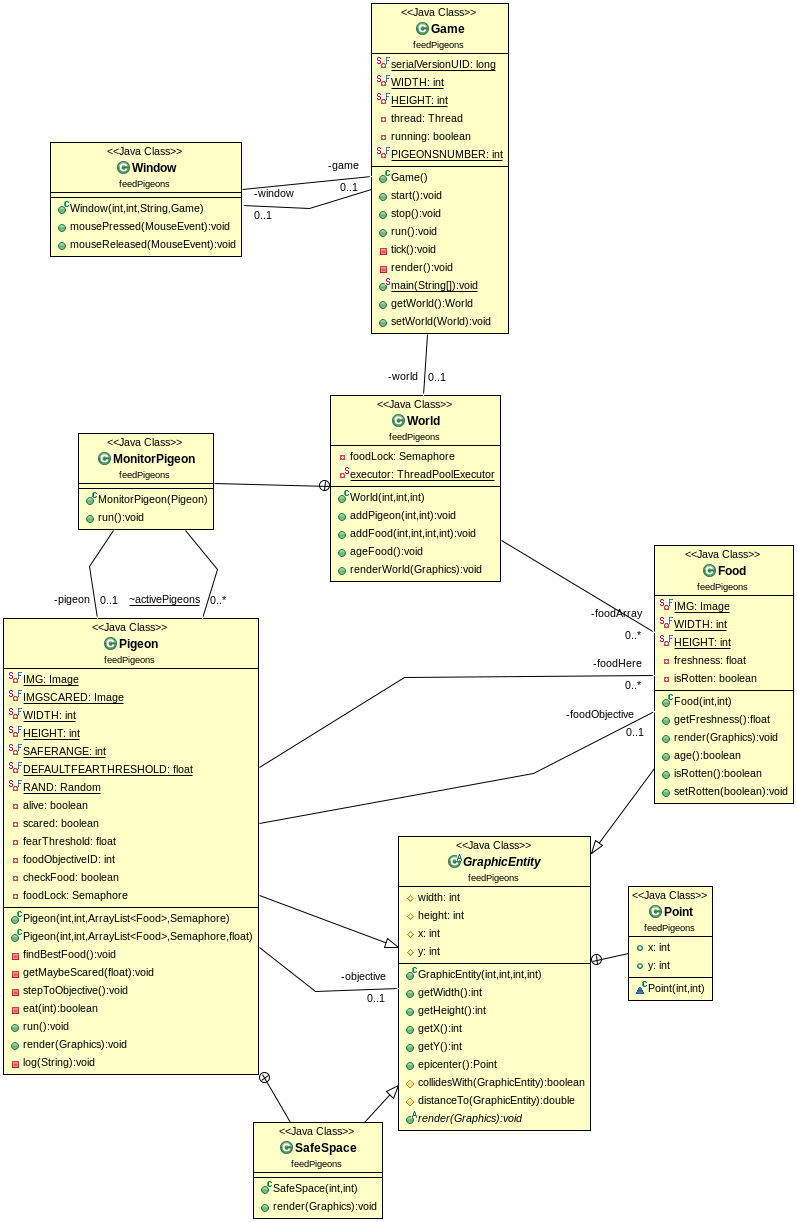
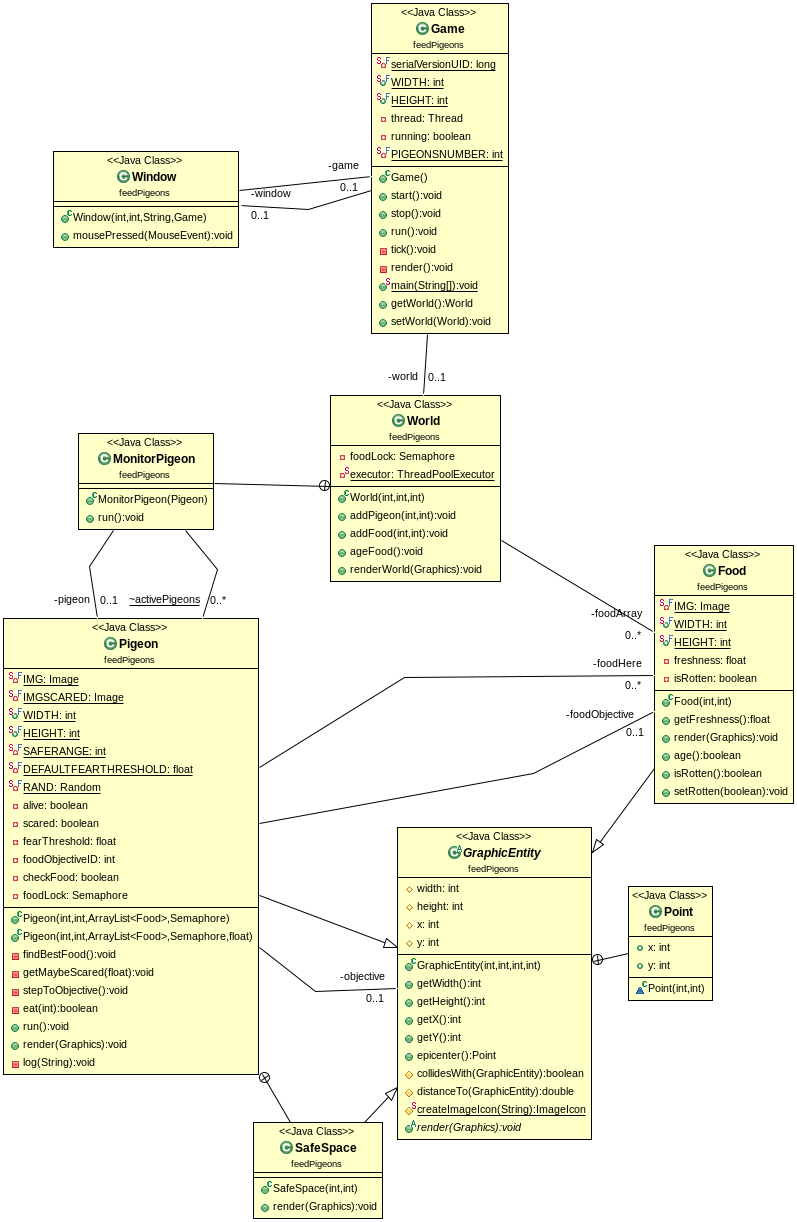
Cleaned everything + added exceptions on file not found

Changed region(s): [[0.4216, 0.653, 0.7528, 0.9329], [0.0602, 0.0933, 0.3614, 0.2177], [0.7227, 0.7774, 0.7528, 0.8085]]

diff --git a/feedPigeons/src/feedPigeons/Pigeon.java b/feedPigeons/src/feedPigeons/Pigeon.java
@@ -6,34 +6,30 @@ import java.util.ArrayList;
 import java.util.Random;
 import java.util.concurrent.Semaphore;
 
-import javax.swing.ImageIcon;
-
 //Chaque pigeon est contrôlé par un Thread
 public class Pigeon extends GraphicEntity implements Runnable {
 	// Constantes
-	private static final Image IMG = new ImageIcon("res/pigeon.png").getImage();
-	private static final Image IMGSCARED = new ImageIcon("res/scaredpigeon.png").getImage();
-	private static final int WIDTH = 21, HEIGHT = 21;
+	private static final Image IMG = createImageIcon("res/pigeon.png").getImage();
+	private static final Image IMGSCARED = createImageIcon("res/scaredpigeon.png").getImage();
+	public static final int WIDTH = 21, HEIGHT = 21;
 
 	private static final int SAFERANGE = 70;// Distance maximale de la zone de fuite
 	private static final float DEFAULTFEARTHRESHOLD = 0.995f;// Seuil de peur par défaut
 	private static final Random RAND = new Random();
 
-	//Variables
+	// Variables
 	private boolean alive = true;
 	private boolean scared = false;
 	private float fearThreshold;// Seuil de peur
-	
+
 	private int foodObjectiveID = 0;// Indice de la nourriture ciblée dans foodHere
 	private boolean checkFood = false;// Pour actualisation de la nourriture ciblée quand c'est nécessaire
 
-	//Références
+	// Références
 	private ArrayList<Food> foodHere;// Tableau des nourritures présentes
 	private Semaphore foodLock;// Sémaphore pour opérations sur le tableau de nourriture
 	private GraphicEntity objective = null;// Objectif actuel
 	private Food foodObjective = null;// Nourriture ciblée
-	
-	
 
 	public Pigeon(int x, int y, ArrayList<Food> foodToWatch, Semaphore foodLock) {
 		super(x, y, WIDTH, HEIGHT);
@@ -113,7 +109,7 @@ public class Pigeon extends GraphicEntity implements Runnable {
 	private void stepToObjective() {
 
 		if (objective == null) {
-			//La nourriture ciblée a disparue
+			// La nourriture ciblée a disparue
 			checkFood = true;
 			return;
 		}
@@ -129,9 +125,9 @@ public class Pigeon extends GraphicEntity implements Runnable {
 		this.y = y_move + this.y;
 
 		if (collidesWith(objective)) {
-			//Arrivée à l'objectif
+			// Arrivée à l'objectif
 			if (objective instanceof Food) {
-				//C'est de la nourriture
+				// C'est de la nourriture
 				log("Trying to eat food " + foodObjectiveID);
 				eat(foodObjectiveID);
 				foodObjective = null;
@@ -146,13 +142,14 @@ public class Pigeon extends GraphicEntity implements Runnable {
 
 	/**
 	 * Mange la nourriture dont l'index est passé en paramètre
+	 * 
 	 * @param foodID l'index de la nourriture dans foodHere
 	 * @return true si la nourriture a été mangée avec succès
 	 */
 	private synchronized boolean eat(int foodID) {
 		try {
 			foodLock.acquire();
-			
+
 			if (foodID < foodHere.size()) {
 				foodHere.remove(foodID);
 				foodObjective = null;
@@ -161,7 +158,7 @@ public class Pigeon extends GraphicEntity implements Runnable {
 				foodLock.release();
 				return true;
 			}
-			
+
 			foodLock.release();
 		} catch (InterruptedException e) {
 		}
@@ -170,11 +167,8 @@ public class Pigeon extends GraphicEntity implements Runnable {
 	}
 
 	/**
-	 * Boucle principale du Pigeon
-	 * Chaque 60eme de seconde, peut :
-	 *  - Considérer la meilleure nourriture
-	 *  - Prendre peur
-	 *  - Marcher vers son objectif
+	 * Boucle principale du Pigeon Chaque 60eme de seconde, peut : - Considérer la
+	 * meilleure nourriture - Prendre peur - Marcher vers son objectif
 	 */
 	@Override
 	public void run() {
@@ -183,24 +177,25 @@ public class Pigeon extends GraphicEntity implements Runnable {
 
 		while (alive) {
 			frameStartTime = System.nanoTime();
-			
+
 			if (lastKnownFoodArraySize != foodHere.size() || checkFood) {
 				// Si de la nourriture vient d'arriver ou de disparaître
 				findBestFood();
 				lastKnownFoodArraySize = foodHere.size();
 				checkFood = false;
 			}
-			
+
 			getMaybeScared(RAND.nextFloat());
-			
-			if(!scared) {
+
+			if (!scared) {
 				objective = foodObjective;
 			}
-			
+
 			stepToObjective();
 
-			//Attendre la fin d'un 60eme de seconde
-			while (System.nanoTime() - frameStartTime <= 16666666l);
+			// Attendre la fin d'un 60eme de seconde
+			while (System.nanoTime() - frameStartTime <= 16666666l)
+				;
 
 		}
 
@@ -220,6 +215,7 @@ public class Pigeon extends GraphicEntity implements Runnable {
 
 	/**
 	 * Log un message dans la console, en ajoutant l'id du pigeon
+	 * 
 	 * @param msg le message à log
 	 */
 	private void log(String msg) {

diff --git a/feedPigeons/src/feedPigeons/GraphicEntity.java b/feedPigeons/src/feedPigeons/GraphicEntity.java
@@ -1,9 +1,13 @@
 package feedPigeons;
 
 import java.awt.Graphics;
+import java.net.MalformedURLException;
+import java.net.URL;
+
+import javax.swing.ImageIcon;
 
 abstract class GraphicEntity {
-	
+
 	protected int width, height;
 	protected int x, y;
 
@@ -13,10 +17,11 @@ abstract class GraphicEntity {
 		this.width = width;
 		this.height = height;
 	}
-	
-	public class Point{
+
+	public class Point {
 		public int x, y;
-		Point(int x, int y){
+
+		Point(int x, int y) {
 			this.x = x;
 			this.y = y;
 		}
@@ -49,27 +54,40 @@ abstract class GraphicEntity {
 
 	/**
 	 * Teste si l'entité est en collision avec une autre
+	 * 
 	 * @param entity l'entité avec qui vérifier la collision
 	 * @return true s'il y a collision
 	 */
 	protected boolean collidesWith(GraphicEntity entity) {
-		if(this.x + this.width < entity.x) 
+		if (this.x + this.width < entity.x)
 			return false;
-		if(this.x > entity.x + entity.width)
+		if (this.x > entity.x + entity.width)
 			return false;
-		if(this.y + this.height < entity.y) 
+		if (this.y + this.height < entity.y)
 			return false;
-		if(this.y > entity.y + entity.height)
+		if (this.y > entity.y + entity.height)
 			return false;
 		return true;
 	}
-	
+
 	protected double distanceTo(GraphicEntity entity) {
-		double term1 = Math.pow(entity.epicenter().x-this.epicenter().x, 2);
-		double term2 = Math.pow(entity.epicenter().y-this.epicenter().y, 2);
-		return Math.sqrt(term1+term2);
+		double term1 = Math.pow(entity.epicenter().x - this.epicenter().x, 2);
+		double term2 = Math.pow(entity.epicenter().y - this.epicenter().y, 2);
+		return Math.sqrt(term1 + term2);
 	}
-	
+
+	protected static ImageIcon createImageIcon(String path) {
+		URL imgURL;
+		try {
+			imgURL = new URL(new URL("file:"), path);
+			return new ImageIcon(imgURL);
+		} catch (MalformedURLException e) {
+			System.err.println("Couldn't find file: " + path);
+			System.exit(1);
+			return null;
+		}
+	}
+
 	public abstract void render(Graphics g);
 
 }

diff --git a/feedPigeons/src/feedPigeons/Window.java b/feedPigeons/src/feedPigeons/Window.java
@@ -9,42 +9,42 @@ import java.io.IOException;
 import javax.imageio.ImageIO;
 import javax.swing.JFrame;
 
-// Creation de la fenetre
+// Création de la fenetre
 // MouseAdapter permet de gerer les clics de souris
 public class Window extends MouseAdapter {
 
 	private Game game;
 
 	public Window(int width, int height, String title, Game game) {
-		
+
 		this.game = game;
-		
+
 		JFrame frame = new JFrame(title);
-		
+
 		frame.setPreferredSize(new Dimension(width, height));
 		frame.setMaximumSize(new Dimension(width, height));
 		frame.setMinimumSize(new Dimension(width, height));
-		
+
 		try {
 			frame.setIconImage(ImageIO.read(new File("res/pigeon.png")));
 		} catch (IOException e) {
-			e.printStackTrace();
+			System.err.println("Couldn't find file: " + "res/pigeon.png");
+			System.exit(1);
 		}
-		
+
 		frame.setDefaultCloseOperation(JFrame.EXIT_ON_CLOSE);
 		frame.setResizable(false);
 		frame.setLocationRelativeTo(null);
 		frame.add(game);
 		frame.setVisible(true);
-		
-		//Apres avoir cree notre fenetre, on lance le jeu
+
+		// Apres avoir cree notre fenetre, on lance le jeu
 		game.start();
 	}
-	
-	//Si on detecte un clic dans la fenetre, on ajoute une nouvelle nourriture a cet emplacement
+
+	// Si on détecte un clic dans la fenetre, on ajoute une nouvelle nourriture a
+	// cet emplacement
 	public void mousePressed(MouseEvent e) {
-		System.out.println("Mouse pressed at position x=" + e.getX() + " y=" + e.getY());
-		
-		game.getWorld().addFood(e.getX(), e.getY(), 16, 16);
+		game.getWorld().addFood(e.getX(), e.getY());
 	}
 }

diff --git a/feedPigeons/src/feedPigeons/Food.java b/feedPigeons/src/feedPigeons/Food.java
@@ -3,40 +3,39 @@ package feedPigeons;
 import java.awt.Graphics;
 import java.awt.Image;
 
-import javax.swing.ImageIcon;
-
-public class Food extends GraphicEntity{
-	//Constantes
-	private static final Image IMG = new ImageIcon("res/food.png").getImage();
-	private static final int WIDTH = 10, HEIGHT = 10;
-	//Variables
-	private float freshness = 0;//0 = fresh to 1 = rotten
+public class Food extends GraphicEntity {
+	// Constantes
+	private static final Image IMG = createImageIcon("res/food.png").getImage();
+	public static final int WIDTH = 16, HEIGHT = 16;
+	// Variables
+	private float freshness = 0;// 0 = fresh to 1 = rotten
 	private boolean isRotten = false;
-	
+
 	public Food(int x, int y) {
 		super(x, y, WIDTH, HEIGHT);
 	}
-	
+
 	public float getFreshness() {
 		return freshness;
 	}
-	
+
 	/**
 	 * Affiche la nourriture
 	 */
 	@Override
 	public void render(Graphics g) {
-		g.drawImage(IMG, x, y, null);		
+		g.drawImage(IMG, x, y, null);
 	}
-	
+
 	/**
 	 * Vieillit la nourriture
+	 * 
 	 * @return true si la nourriture a pourri, false sinon
 	 */
 	public boolean age() {
 		freshness += 0.004;
-		
-		if(freshness >= 1) {
+
+		if (freshness >= 1) {
 			setRotten(true);
 			return true;
 		}

diff --git a/feedPigeons/src/feedPigeons/World.java b/feedPigeons/src/feedPigeons/World.java
@@ -47,23 +47,24 @@ public class World {
 		executor.execute(new MonitorPigeon(new Pigeon(x, y, foodArray, foodLock)));
 	}
 
-	public void addFood(int x, int y, int width, int height) {
+	public void addFood(int x, int y) {
 		try {
 			foodLock.acquire();
+
+			foodArray.add(new Food(x, y));
 		} catch (InterruptedException e) {
 		}
-		foodArray.add(new Food(x, y));
 		foodLock.release();
+
 	}
 
-	
 	public void ageFood() {
 		Food f;
 		try {
 			foodLock.acquire();
 			for (int i = 0; i < foodArray.size(); i++) {
 				f = foodArray.get(i);
-				//Si la nourriture a vieilli, on la supprime
+				// Si la nourriture a vieilli, on la supprime
 				if (f.age()) {
 					foodArray.remove(i);
 				}
@@ -85,7 +86,7 @@ public class World {
 
 			foodLock.acquire();
 			for (Food f : foodArray) {
-				f.render(g); //Affichage graphique de la nourriture
+				f.render(g); // Affichage graphique de la nourriture
 			}
 			foodLock.release();
 		} catch (InterruptedException e) {
